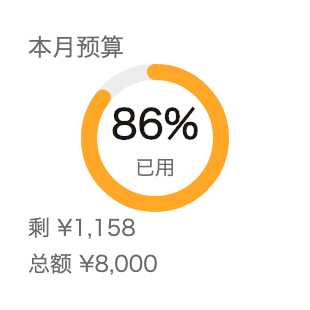
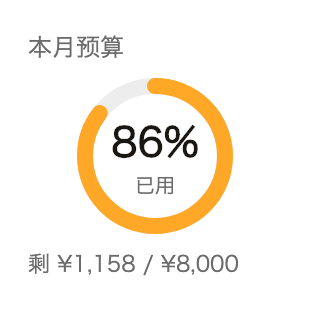
fix(widget): 预算小卡底部改回一排,压缩字数(去总额/去小数)不截断

Changed region(s): [[0.2323, 0.2032, 0.7548, 0.7839], [0.0871, 0.8129, 0.7839, 0.9], [0.0871, 0.6968, 0.2613, 0.7839]]

diff --git a/lib/widget/views/budget_view.dart b/lib/widget/views/budget_view.dart
@@ -91,6 +91,10 @@ class BudgetView extends StatelessWidget {
   String _money(double v) =>
       '${getCurrencySymbol(currencyCode)}${formatMoneyCompact(v)}';
 
+  /// 去小数点的金额(小卡底部一排空间紧张,分位精度在这里没有信息价值)。
+  String _moneyCompact(double v) =>
+      '${getCurrencySymbol(currencyCode)}${formatMoneyCompact(v, maxDecimals: 0)}';
+
   /// 按用量状态挑颜色,见类文档"弧/条颜色"一节。
   Color _statusColor(String status) {
     switch (status) {
@@ -206,21 +210,12 @@ class BudgetView extends StatelessWidget {
               ),
             ),
           ),
-          // 底部拆两行:155dp 小卡放不下「剩 ¥x / 总额 ¥y」一行千位金额
-          // (真机反馈被 ellipsis 截断),两行各自短、基本不会再截。
+          // 底部保持一排(用户拍板:两行不好看),靠压缩字数放下千位金额:
+          // 去「总额」二字、金额去小数点(¥1,158 而非 ¥1,158.00),保留「剩」
+          // 的语义 —— `剩 ¥1,158 / ¥8,000`。十万级金额也放得下,极端仍
+          // ellipsis 兜底。
           Text(
-            '$remainingLabel ${_money(total.remaining)}',
-            maxLines: 1,
-            overflow: TextOverflow.ellipsis,
-            style: TextStyle(
-              fontSize: 11,
-              color: widgetTextSecondary(dark),
-              fontFeatures: const [kWidgetTabularFeature],
-            ),
-          ),
-          const SizedBox(height: 1),
-          Text(
-            '$totalLabel ${_money(total.budget)}',
+            '$remainingLabel ${_moneyCompact(total.remaining)} / ${_moneyCompact(total.budget)}',
             maxLines: 1,
             overflow: TextOverflow.ellipsis,
             style: TextStyle(

diff --git a/test/widget/budget_view_test.dart b/test/widget/budget_view_test.dart
@@ -57,8 +57,9 @@ void main() {
     expect(find.text('17%'), findsOneWidget);
   });
 
-  // 小卡底部拆两行:千位金额也放得下(真机反馈单行被 ellipsis 截断)。
-  testWidgets('small:千位金额底部两行完整显示,不截断', (tester) async {
+  // 小卡底部一排 + 压缩字数(用户拍板:两行不好):去「总额」、金额去小数,
+  // `剩 ¥1,158 / ¥8,000` 千位金额放得下。
+  testWidgets('small:底部一排压缩格式,千位金额完整显示', (tester) async {
     const size = Size(155, 155);
     await tester.pumpWidget(Directionality(
       textDirection: TextDirection.ltr,
@@ -85,8 +86,7 @@ void main() {
     await tester.pump();
 
     expect(tester.takeException(), isNull);
-    expect(find.text('剩 ¥1,158'), findsOneWidget);
-    expect(find.text('总额 ¥8,000'), findsOneWidget);
+    expect(find.text('剩 ¥1,158 / ¥8,000'), findsOneWidget);
   });
 
   CategoryBudgetUsage category(String name, double used, double budget) {
